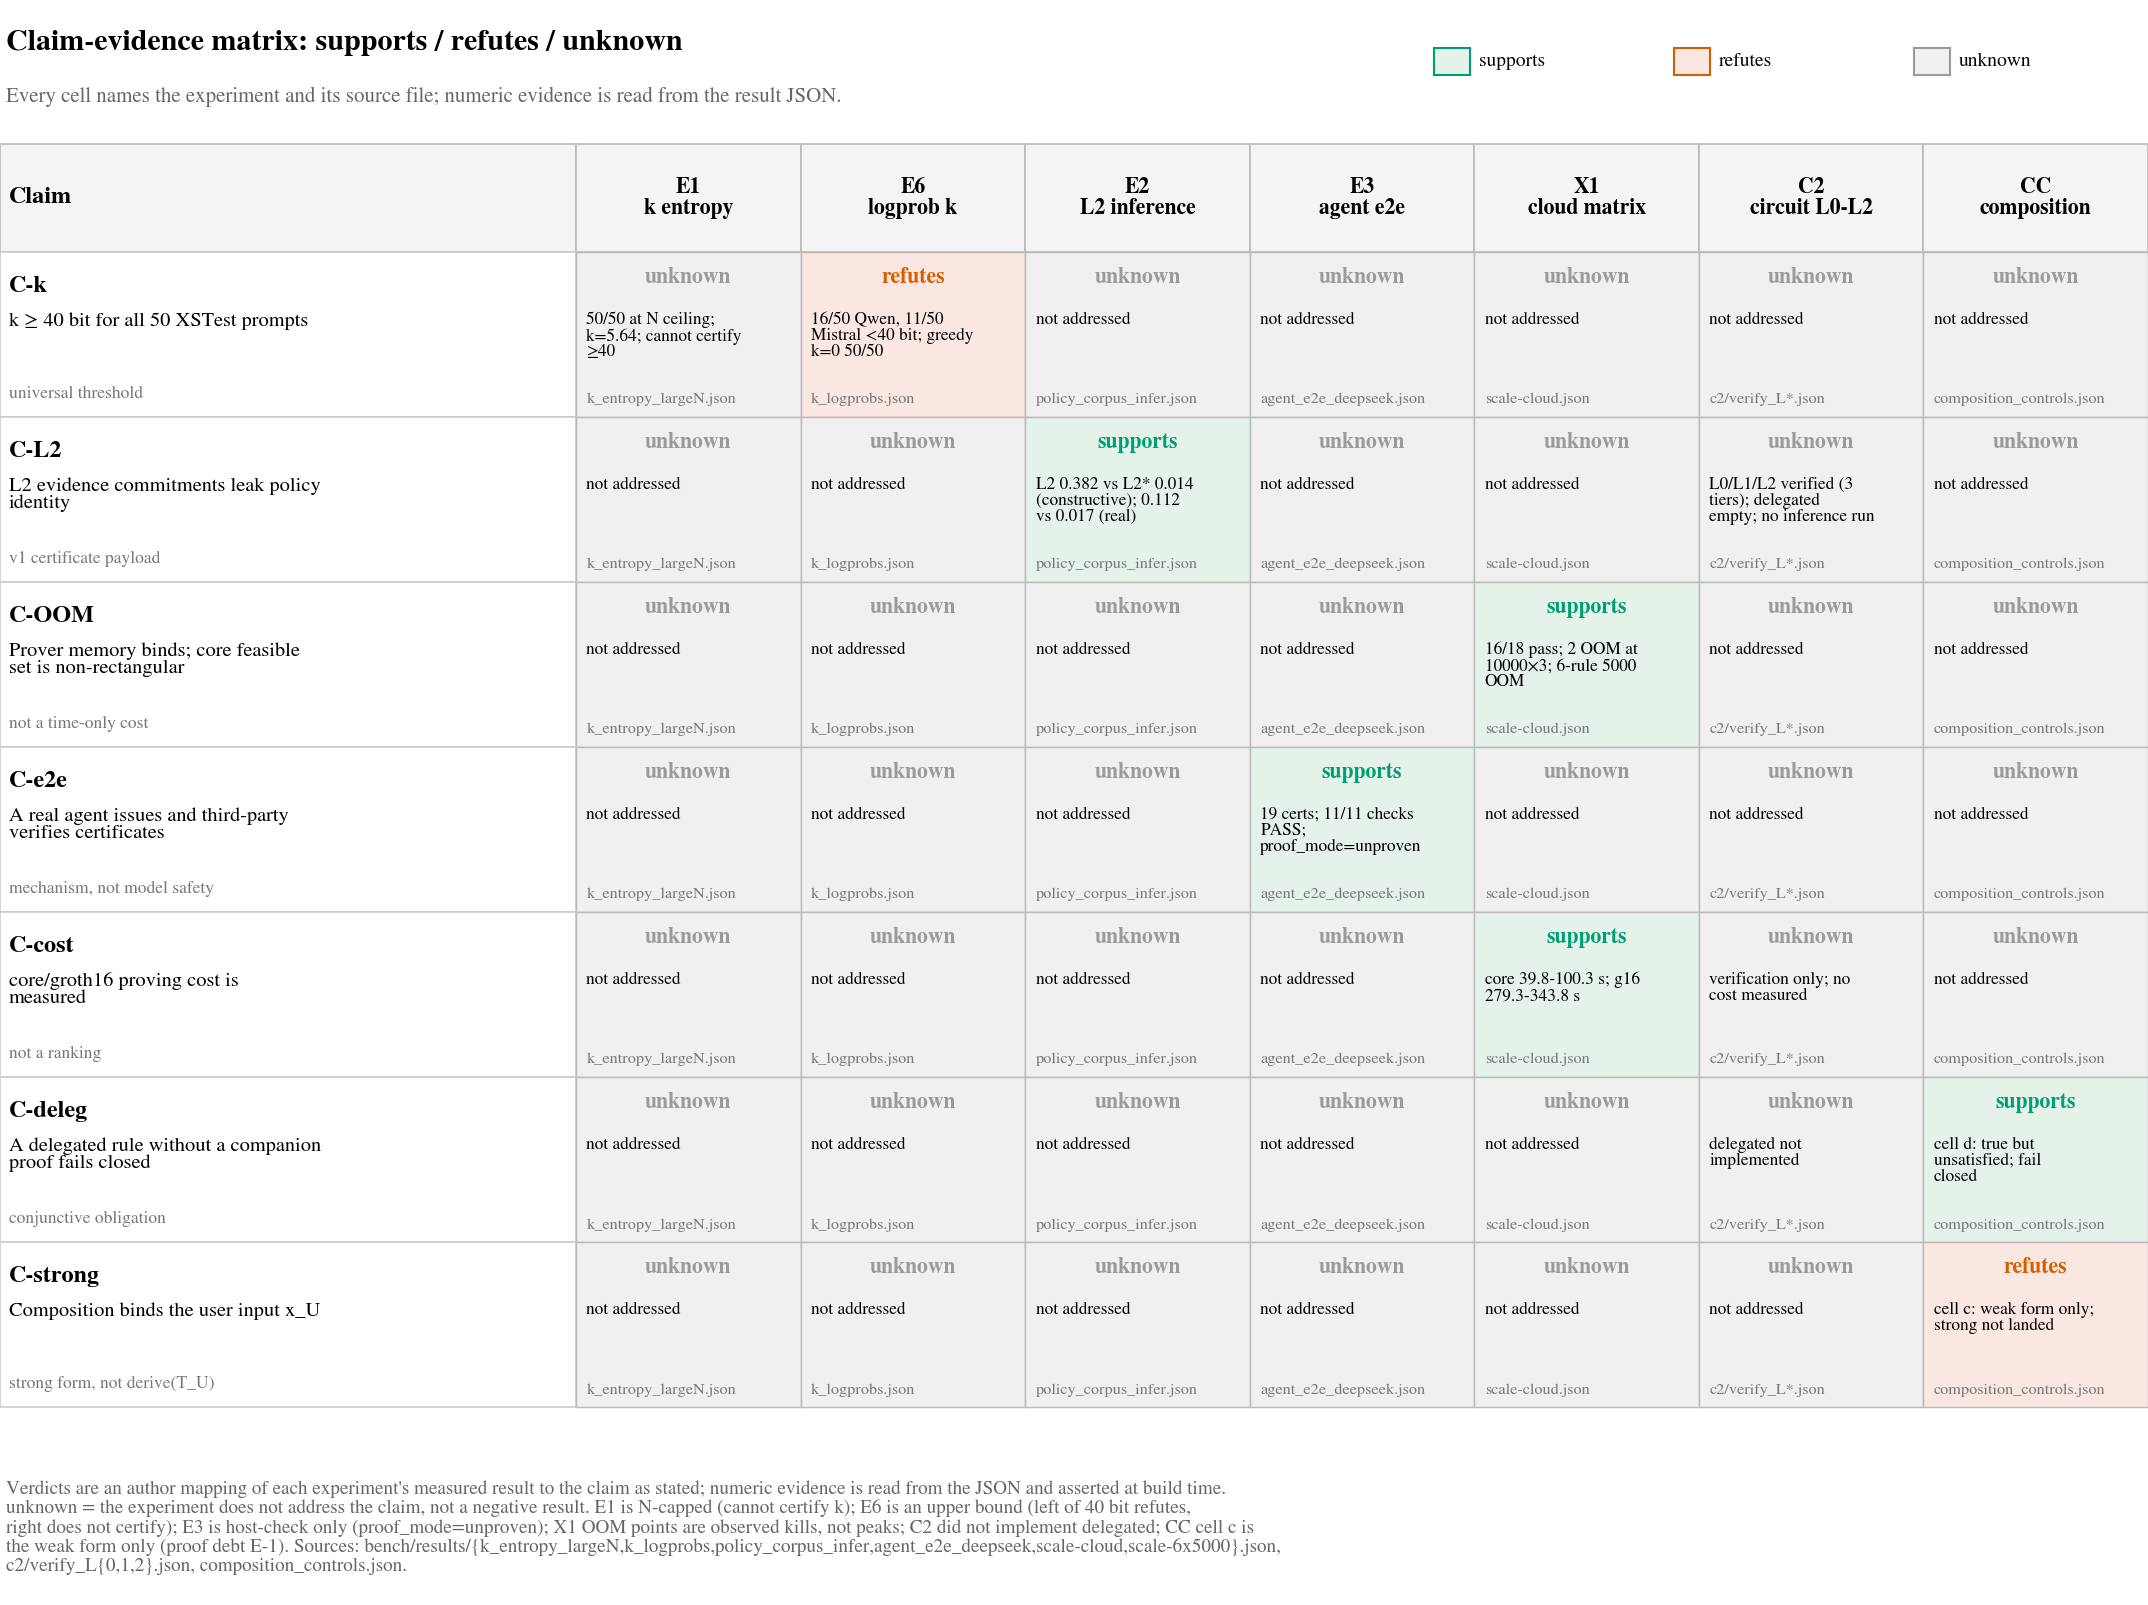
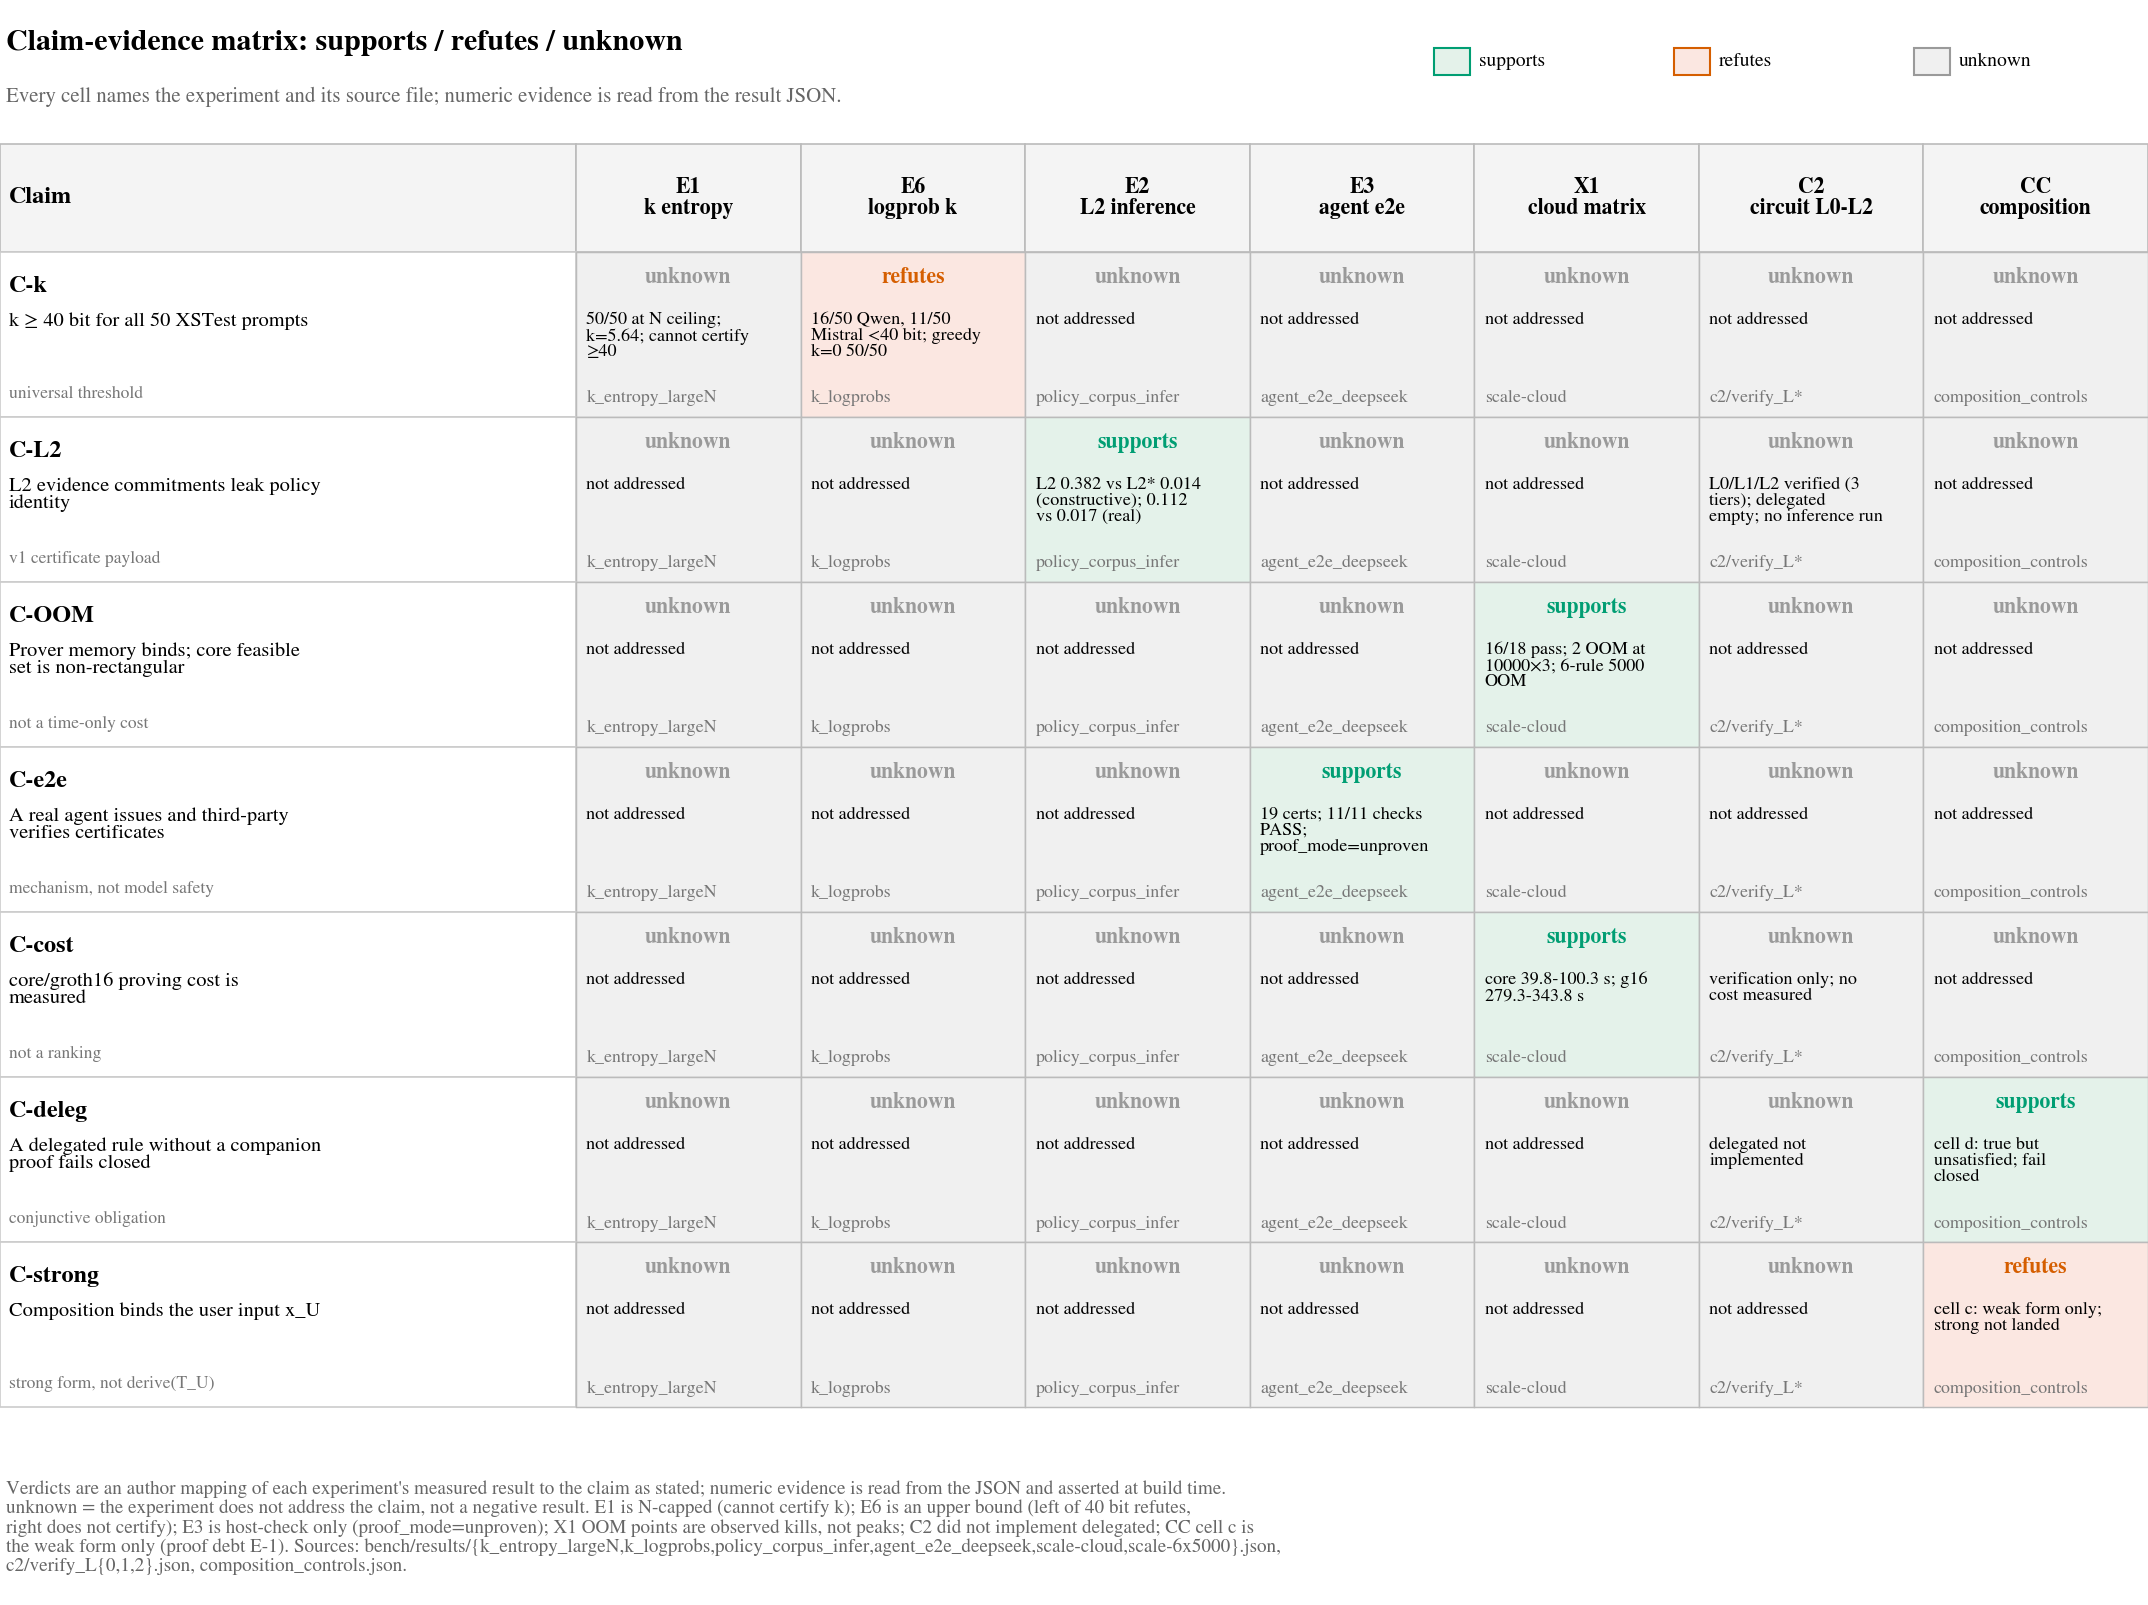
refine(figures): enlarge VA4 cell text and shorten source tags

diff --git a/paper/figures/va/scripts/va04_claim_evidence.py b/paper/figures/va/scripts/va04_claim_evidence.py
@@ -55,13 +55,13 @@ EXPS = [
 ]
 
 SOURCE = {
-    "E1": "k_entropy_largeN.json",
-    "E6": "k_logprobs.json",
-    "E2": "policy_corpus_infer.json",
-    "E3": "agent_e2e_deepseek.json",
-    "X1": "scale-cloud.json",
-    "C2": "c2/verify_L*.json",
-    "CC": "composition_controls.json",
+    "E1": "k_entropy_largeN",
+    "E6": "k_logprobs",
+    "E2": "policy_corpus_infer",
+    "E3": "agent_e2e_deepseek",
+    "X1": "scale-cloud",
+    "C2": "c2/verify_L*",
+    "CC": "composition_controls",
 }
 
 
@@ -238,9 +238,9 @@ def draw() -> None:
                     va="top", fontsize=5.2, fontweight="bold", color=edge)
             ax.text(x + 0.035, ry + row_h - 0.20,
                     textwrap.fill(ev, 23), ha="left", va="top",
-                    fontsize=4.15, linespacing=0.98)
+                    fontsize=4.35, linespacing=0.98)
             ax.text(x + 0.035, ry + 0.035, SOURCE[exp], ha="left", va="bottom",
-                    fontsize=3.9, color="#777777")
+                    fontsize=4.3, color="#777777")
 
     # provenance / reading rules
     footer = (
